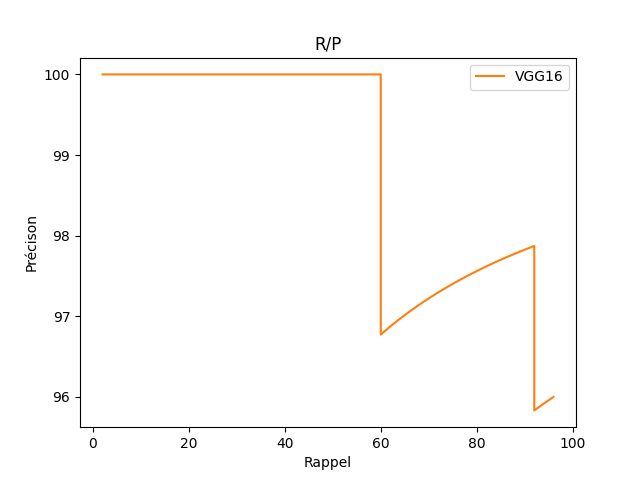
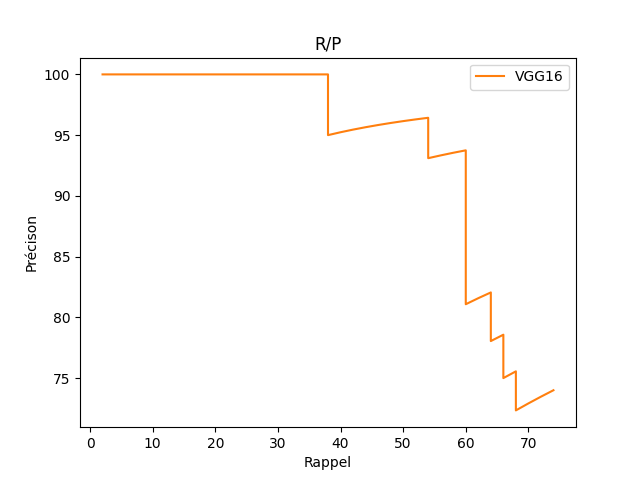
Ajout logout, choix modele, debut clean code

diff --git a/searchEngine/searchClient/templates/searchClient/index.html b/searchEngine/searchClient/templates/searchClient/index.html
@@ -17,6 +17,7 @@
         <!-- Button -->
         <button class="button">Rechercher les images similaires</button>
     </form>
+    <a href="{% url 'logout' %}">Déconnexion</a>
     <div class="gallery-wrapper">
   <div class="gallery-scroll">
     <div class="gallery">

diff --git a/searchEngine/users/views.py b/searchEngine/users/views.py
@@ -6,19 +6,28 @@ from .forms import UserRegisterForm, UserLoginForm
 
 def register_view(request):
     if request.method == 'POST':
+        # Create a form with the data from the request
         form = UserRegisterForm(request.POST)
         if form.is_valid():
             form.save()
             messages.success(request, 'Account created successfully!')
             return redirect('login')
+        else:
+            # Display the non valid fields
+            for error in form.errors.values():
+                messages.error(request, error)
     else:
         form = UserRegisterForm()
+
     return render(request, 'users/register.html', {'form': form})
+
 
 def login_view(request):
     if request.method == 'POST':
+        # Create a form with the data from the request
         form = UserLoginForm(request, data=request.POST)
         if form.is_valid():
+            # Login the user and redirect to the application page
             user = form.get_user()
             login(request, user)
             return redirect('index')
@@ -31,7 +40,6 @@ def login_view(request):
 @login_required
 def index_view(request):
     return redirect('/searchClient/index')
-    # return render(request, 'searchClient/index.html')
 
 @login_required
 def logout_view(request):

diff --git a/searchEngine/searchClient/views.py b/searchEngine/searchClient/views.py
@@ -2,23 +2,26 @@ from django.shortcuts import render
 from .forms import FileSelectionForm
 import os
 from django.contrib.auth.decorators import login_required
-from .recherche import *
+
+from .engine import *
 
 
 @login_required
 def index(request):
-    results_dir = 'results'
     if request.method == 'POST':
+        # Create a form with the data from the request
         form = FileSelectionForm(request.POST)
         if form.is_valid():
+            # Get the data from the form
             filename = form.cleaned_data['filename']
             top = form.cleaned_data['top']
+            model = form.cleaned_data['dropdown']
+
             file_path = os.path.join('searchClient/static/', filename)
 
             if os.path.exists(file_path):
-
-                base_image, images, _ = search(filename[:-4], top, "VGG16")
-
+                # Make the search with engine.py
+                base_image, images, _ = search(filename[:-4], top, model)
                 images.insert(0, base_image)
 
                 return render(request, 'searchClient/results.html', {'images': images})

diff --git a/searchEngine/searchClient/engine.py b/searchEngine/searchClient/engine.py
@@ -51,12 +51,10 @@ def read_features_from_files(folder_model1, files_folder):
 
 def recherche(image_req,top):
   voisins = getkVoisins(features1, features1[image_req],top)
-  #print(voisins)
   nom_images_proches = []
   nom_images_non_proches = []
   for k in range(top):
       nom_images_proches.append(voisins[k][0])
-      #print("done")
 
   nom_image_requete=os.path.splitext(os.path.basename(features1[image_req][0]))[0]
 
@@ -124,8 +122,8 @@ def search(image_req, top, model):
     global features1
     features1 = read_features_from_files(folder_model1, "")
     nom_image_requete, nom_images_proches, nom_images_non_proches = recherche(image_req, top)
-    #compute_RP("RP.txt", top,nom_image_requete, nom_images_non_proches)
-    #display_RP("RP.txt", model)
+    compute_RP("RP.txt", top,nom_image_requete, nom_images_non_proches)
+    display_RP("RP.txt", model)
     
     nom_image_requete += ".jpg"
 

diff --git a/searchEngine/searchClient/forms.py b/searchEngine/searchClient/forms.py
@@ -1,5 +1,13 @@
 from django import forms
 
 class FileSelectionForm(forms.Form):
+    # Structure of the form
     filename = forms.CharField(label="Nom du fichier", max_length=20)
     top = forms.IntegerField(label="Nombre de résultats à afficher", min_value=1, max_value=80)
+
+    choices = [
+        ('VGG16', 'VGG16'),
+        ('ResNet50', 'ResNet50'),
+        ('MobileNet', 'MobileNet')
+    ]
+    dropdown = forms.ChoiceField(choices=choices, label='Choix du modèle')

diff --git a/searchEngine/searchClient/urls.py b/searchEngine/searchClient/urls.py
@@ -1,6 +1,8 @@
 from django.urls import path
 from searchClient import views
+from users import views as users_views
 
 urlpatterns = [
     path("index/", views.index, name='index'),
+    path('logout/', users_views.logout_view, name='logout'),
 ]

diff --git a/TODO.md b/TODO.md
@@ -2,13 +2,14 @@
 
 - [ ] Finir le code Django
   - [ ] Finir le fonctionnement pur
-    - [ ] Ajouter au formulaire le choix du modèle
-  - [ ] Finir le style
-  - [ ] Clean le code
+    - [x] Ajouter au formulaire le choix du modèle
+    - [ ] Ajouter infos demandées dans l'énoncé
+  - [x] Finir le style
+  - [ ] Clean et commenter le code
 
-- [ ] Finir la conteneurisation
+- [x] Finir la conteneurisation
   - [x] Réadapter l'image
-  - [ ] Clean code Docker
+  - [x] Clean code Docker
   
 - [ ] Déployer sur le cloud
   - [ ] Installer les fichiers
